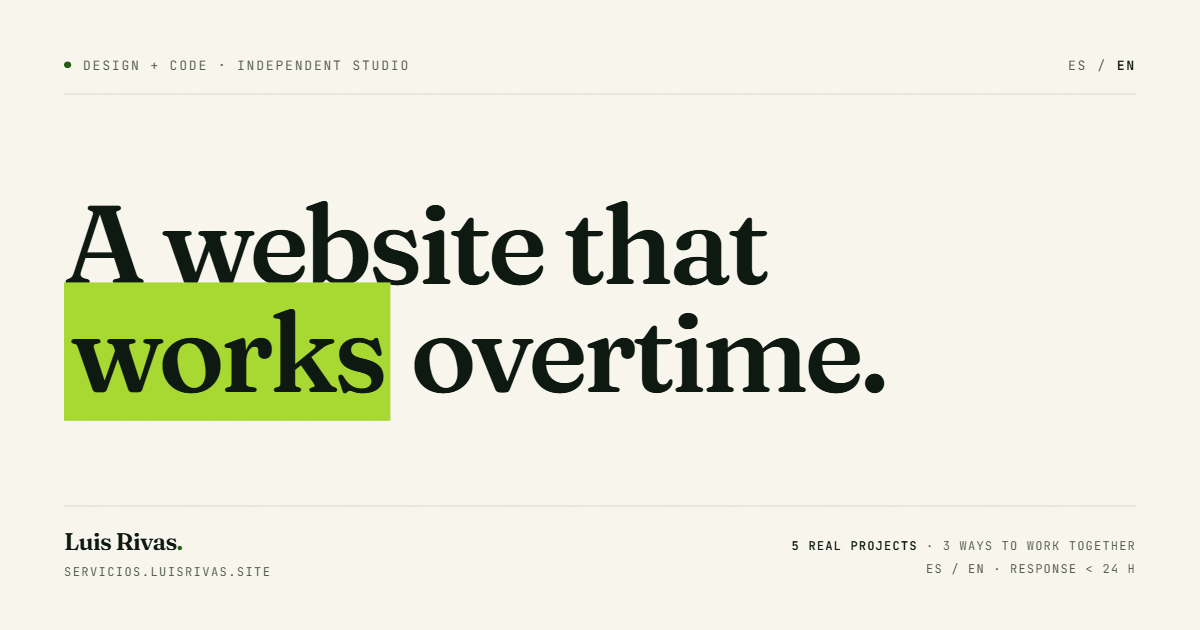
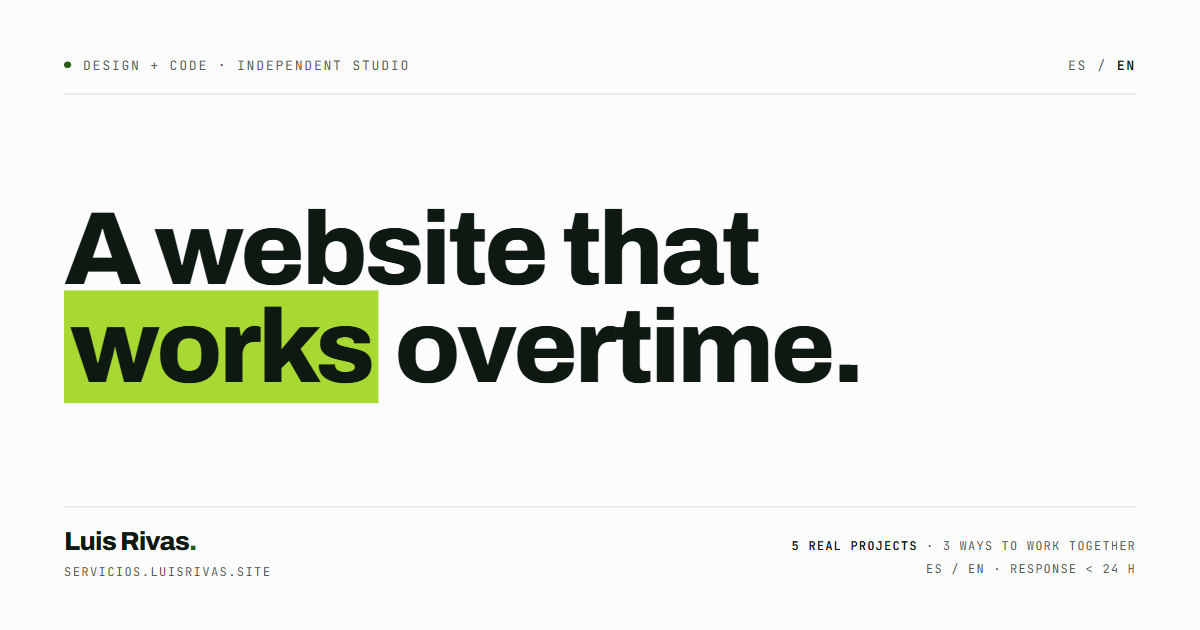
refactor(services): replace cream serif theme with Businessweek-style grotesque
Swap the cream stock and Fraunces display for white paper, neutral rules and a heavy tight grotesque, with Archivo at 700/800 across headings. Recalibrated display scales so the hero and page heads keep their line breaks at 320-1280px.

Regenerated both OG cards with the new type and white stock, dropped the paper grain, and updated the Hallmark stamps plus .hallmark/log.json to the new axes and reference.

diff --git a/apps/services/src/styles/global.css b/apps/services/src/styles/global.css
@@ -1,9 +1,10 @@
 /* Hallmark · pre-emit critique: P5 H4 E5 S4 R5 V5
- * Hallmark · macrostructure: Portfolio Grid · theme: custom (Lima Editorial)
- * vibe: "editorial premium, lima, innovación cálida"
- * display: Fraunces · body: Geist · mono: JetBrains Mono
- * axes: light / high-contrast-serif / green-lime · studied: no
- * nav: N12 · footer: Ft1 · enrichment: none · v2.0.0
+ * Hallmark · macrostructure: Portfolio Grid · theme: custom (Lima Businessweek)
+ * reference: Bloomberg Businessweek covers (2010–2018) — hard white stock,
+ *   oversized tight grotesque, one loud colour field, rules as structure.
+ * display: Archivo · body: Geist · mono: JetBrains Mono
+ * axes: light / grotesk-sans / green-lime · studied: no
+ * nav: N12 · footer: Ft1 · enrichment: none · v2.1.0
  * contrast: pass (40–41) · honest: pass (46) · chrome: pass (47)
  * tokens: pass (48) · responsive: pass (49) · icons: pass (30)
  */
@@ -59,8 +60,12 @@ h6 {
   overflow-wrap: anywhere;
   font-family: var(--font-display);
   font-style: normal;
-  font-weight: 500;
+  font-weight: var(--weight-display);
   text-wrap: balance;
+}
+
+h1 {
+  font-weight: var(--weight-display-heavy);
 }
 
 p,
@@ -607,7 +612,7 @@ main {
 .brand__name {
   font-family: var(--font-display);
   font-size: 1.2rem;
-  font-weight: 600;
+  font-weight: var(--weight-display-heavy);
   letter-spacing: -0.035em;
   line-height: 1;
 }
@@ -852,7 +857,7 @@ main {
   border-top: var(--rule-hair) solid var(--color-rule);
   font-family: var(--font-display);
   font-size: clamp(1.85rem, 6vw, 3.25rem);
-  font-weight: 500;
+  font-weight: var(--weight-display);
   letter-spacing: var(--tracking-display);
   line-height: 1;
   text-decoration: none;
@@ -974,10 +979,9 @@ main {
 
 .hero__title {
   font-size: var(--text-display);
-  font-weight: 500;
   letter-spacing: var(--tracking-display);
   line-height: var(--leading-tight);
-  text-wrap: pretty;
+  text-wrap: balance;
 }
 
 .hero__title mark {
@@ -1096,7 +1100,7 @@ main {
   display: block;
   font-family: var(--font-display);
   font-size: clamp(1.5rem, 2.4vw, 2.2rem);
-  font-weight: 500;
+  font-weight: var(--weight-display);
   line-height: 1;
   letter-spacing: -0.02em;
   color: var(--color-ink);
@@ -1510,7 +1514,7 @@ main {
 .service-facts strong {
   font-family: var(--font-display);
   font-size: var(--text-lg);
-  font-weight: 500;
+  font-weight: var(--weight-display);
 }
 
 .service-note {
@@ -1630,6 +1634,7 @@ main {
 .service-matrix__head {
   font-family: var(--font-display);
   font-size: var(--text-lg);
+  font-weight: 600;
   color: var(--color-ink);
 }
 
@@ -1844,6 +1849,7 @@ main {
 .testimonial__quote {
   font-family: var(--font-display);
   font-size: var(--text-xl);
+  font-weight: 600;
   line-height: var(--leading-heading);
   letter-spacing: -0.015em;
   color: var(--color-ink);
@@ -1913,7 +1919,7 @@ main {
   cursor: pointer;
   font-family: var(--font-display);
   font-size: var(--text-lg);
-  font-weight: 500;
+  font-weight: var(--weight-display);
   letter-spacing: -0.01em;
 }
 
@@ -2038,7 +2044,7 @@ main {
 .footer__wordmark {
   font-family: var(--font-display);
   font-size: clamp(2.6rem, 6vw, 5rem);
-  font-weight: 500;
+  font-weight: var(--weight-display-heavy);
   line-height: 0.9;
   letter-spacing: var(--tracking-display);
 }
@@ -2496,7 +2502,7 @@ main {
 .next-case strong {
   font-family: var(--font-display);
   font-size: var(--text-2xl);
-  font-weight: 500;
+  font-weight: var(--weight-display);
   letter-spacing: -0.02em;
 }
 
@@ -2651,6 +2657,7 @@ main {
   justify-self: start;
   font-family: var(--font-display);
   font-size: var(--text-xl);
+  font-weight: var(--weight-display);
   letter-spacing: -0.02em;
   color: var(--color-ink);
   text-decoration: none;

diff --git a/apps/services/tokens.css b/apps/services/tokens.css
@@ -1,24 +1,26 @@
 /* Hallmark · pre-emit critique: P5 H4 E5 S4 R5 V5
- * Hallmark · macrostructure: Portfolio Grid · theme: custom (Lima Editorial)
- * vibe: "editorial premium, lima, innovación cálida"
- * paper: oklch(97.6% 0.012 95) · ink: oklch(20% 0.024 155) · accent: oklch(82% 0.19 125)
- * display: Fraunces · body: Geist · mono: JetBrains Mono
- * axes: light / high-contrast-serif / green-lime · studied: no
- * nav: N12 · footer: Ft1 · enrichment: none · context: explicit · v2.0.0
+ * Hallmark · macrostructure: Portfolio Grid · theme: custom (Lima Businessweek)
+ * reference: Bloomberg Businessweek covers (2010–2018) — hard white stock,
+ *   oversized tight grotesque, one loud colour field, rules as structure.
+ *   Not "elegant editorial": a weekly business magazine, flat and loud.
+ * paper: oklch(99% 0 0) · ink: oklch(20% 0.024 155) · accent: oklch(82% 0.19 125)
+ * display: Archivo · body: Geist · mono: JetBrains Mono
+ * axes: light / grotesk-sans / green-lime · studied: no
+ * nav: N12 · footer: Ft1 · enrichment: none · context: explicit · v2.1.0
  * contrast: pass (40–41) · honest: pass (46) · chrome: pass (47)
  * tokens: pass (48) · responsive: pass (49) · icons: pass (30)
  */
 
 :root {
-  /* Colour — warm bone paper, deep forest ink, lime as signal. */
-  --color-paper: oklch(97.6% 0.012 95);
-  --color-paper-2: oklch(94.8% 0.016 95);
-  --color-paper-3: oklch(91.5% 0.02 95);
+  /* Colour — white stock, green-black ink, lime as the single signal. */
+  --color-paper: oklch(99% 0 0);
+  --color-paper-2: oklch(96.2% 0 0);
+  --color-paper-3: oklch(92.6% 0 0);
   --color-ink: oklch(20% 0.024 155);
   --color-ink-2: oklch(34% 0.022 155);
   --color-muted: oklch(47% 0.018 150);
-  --color-rule: oklch(85% 0.018 110);
-  --color-rule-strong: oklch(68% 0.025 130);
+  --color-rule: oklch(86% 0 0);
+  --color-rule-strong: oklch(62% 0 0);
   --color-accent: oklch(82% 0.19 125);
   --color-accent-strong: oklch(42% 0.12 140);
   --color-accent-ink: oklch(20% 0.03 150);
@@ -27,8 +29,8 @@
   --color-focus: oklch(45% 0.14 140);
   --color-forest: oklch(24% 0.035 150);
   --color-forest-2: oklch(30% 0.04 150);
-  --color-forest-ink: oklch(95% 0.012 95);
-  --color-forest-muted: oklch(74% 0.02 120);
+  --color-forest-ink: oklch(97% 0 0);
+  --color-forest-muted: oklch(76% 0.012 120);
   --color-forest-rule: oklch(38% 0.03 150);
   --color-scrim: oklch(20% 0.03 150 / 0.45);
   --color-error: oklch(48% 0.19 27);
@@ -36,9 +38,11 @@
   --color-success: oklch(45% 0.12 155);
 
   /* Type */
-  --font-display: "Fraunces Variable", "Fraunces", Georgia, serif;
+  --font-display: "Archivo Variable", "Archivo", "Helvetica Neue", Arial, sans-serif;
   --font-body: "Geist Variable", "Geist", ui-sans-serif, sans-serif;
   --font-mono: "JetBrains Mono Variable", "JetBrains Mono", ui-monospace, monospace;
+  --weight-display: 700;
+  --weight-display-heavy: 800;
 
   --text-xs: 0.72rem;
   --text-sm: 0.875rem;
@@ -47,15 +51,15 @@
   --text-xl: clamp(1.3rem, 1.1rem + 0.8vw, 1.65rem);
   --text-2xl: clamp(1.8rem, 1.4rem + 1.6vw, 2.6rem);
   --text-3xl: clamp(2.4rem, 1.8rem + 2.4vw, 3.6rem);
-  --text-display-s: clamp(2.8rem, 2rem + 3.2vw, 4.4rem);
-  --text-display: clamp(2.6rem, 1.8rem + 4.7vw, 6.1rem);
+  --text-display-s: clamp(2.35rem, 1.4rem + 4.7vw, 4.4rem);
+  --text-display: clamp(2.2rem, 1.1rem + 4.2vw, 4.45rem);
 
   --leading-tight: 0.94;
   --leading-display: 0.98;
   --leading-heading: 1.06;
   --leading-body: 1.62;
-  --tracking-display: -0.035em;
-  --tracking-heading: -0.025em;
+  --tracking-display: -0.03em;
+  --tracking-heading: -0.022em;
   --tracking-mono: 0.075em;
 
   /* Space — 4 pt scale */
